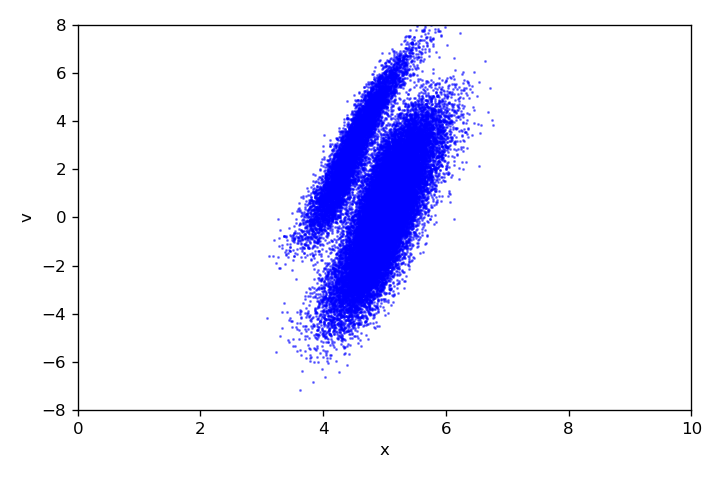
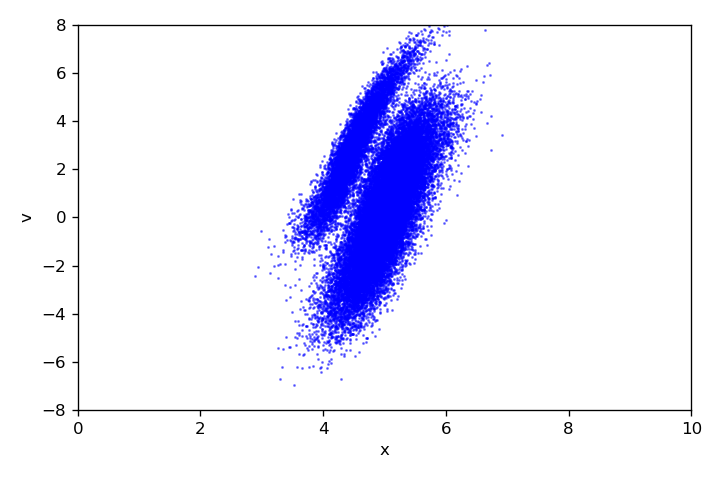
update hamiltonian computation and result

Changed region(s): [[0.3667, 0.0312, 0.6722, 0.7812]]

diff --git a/src/PIC1D.py b/src/PIC1D.py
@@ -159,7 +159,7 @@ class PICsolver:
         vel_list = []
         E_list = []
 
-        E_init = compute_hamiltonian(np.copy(self.v), np.copy(self.a))
+        E_init = compute_hamiltonian(np.copy(self.v), np.copy(self.E_mesh), self.dx)
 
         pos_list.append(np.copy(self.x))
         vel_list.append(np.copy(self.v))
@@ -199,7 +199,7 @@ class PICsolver:
             if pos_list is not None:
                 pos_list.append(np.copy(self.x))
                 vel_list.append(np.copy(self.v))
-                E_list.append(compute_hamiltonian(np.copy(self.v), np.copy(self.a)))
+                E_list.append(compute_hamiltonian(np.copy(self.v), np.copy(self.E_mesh), self.dx))
 
         # file check
         if self.save_dir is not None:

diff --git a/src/PIC1D_dist.py b/src/PIC1D_dist.py
@@ -164,7 +164,7 @@ class PICsolver:
         vel_list = []
         E_list = []
 
-        E_init = compute_hamiltonian(np.copy(self.v), np.copy(self.a))
+        E_init = compute_hamiltonian(np.copy(self.v), np.copy(self.E_mesh), self.dx)
 
         pos_list.append(np.copy(self.x))
         vel_list.append(np.copy(self.v))
@@ -187,7 +187,7 @@ class PICsolver:
             if pos_list is not None:
                 pos_list.append(np.copy(self.x))
                 vel_list.append(np.copy(self.v))
-                E_list.append(compute_hamiltonian(np.copy(self.v), np.copy(self.a)))
+                E_list.append(compute_hamiltonian(np.copy(self.v), np.copy(self.E_mesh), self.dx))
 
         # file check
         if self.save_dir is not None:

diff --git a/pic_1d_bump_on_tail.py b/pic_1d_bump_on_tail.py
@@ -7,8 +7,8 @@ def parsing():
     parser.add_argument("--num_particle", type = int, default = 40000)
     parser.add_argument("--num_mesh", type = int, default = 400)
     parser.add_argument("--t_min", type = float, default = 0)
-    parser.add_argument("--t_max", type = float, default = 50)
-    parser.add_argument("--dt", type = float, default = 1)
+    parser.add_argument("--t_max", type = float, default = 1.0)
+    parser.add_argument("--dt", type = float, default = 0.01)
     parser.add_argument("--L", type = float, default = 10)
     parser.add_argument("--n0", type = float, default = 1.0)
     parser.add_argument("--eta", type = float, default = 10.0)

diff --git a/src/utils.py b/src/utils.py
@@ -1,11 +1,12 @@
 import numpy as np
 from typing import Union, Optional
-from scipy.linalg import lu
-from numba import jit
 
-def compute_hamiltonian(v:np.array, E:np.array):
-    H = 0.5 * np.sum(v * v) + 1 / 8 / np.pi * np.sum(E*E)
+def compute_hamiltonian(v: np.array, E_mesh: np.array, dx: float):
+    KE = 0.5 * np.sum(v * v)
+    PE = 1 / 8 / np.pi * np.sum(E_mesh * E_mesh) * dx
+    H = KE + PE
     return H
+
 
 def matmul_vec(A : np.ndarray, x : np.array):
     result = np.zeros_like(x)
